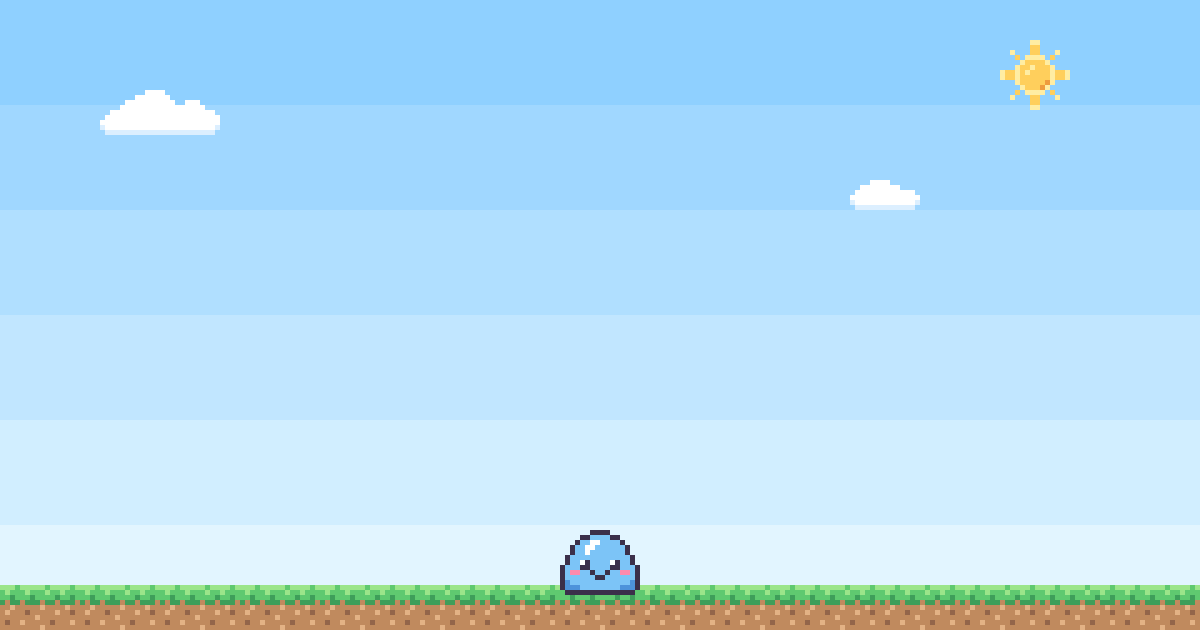
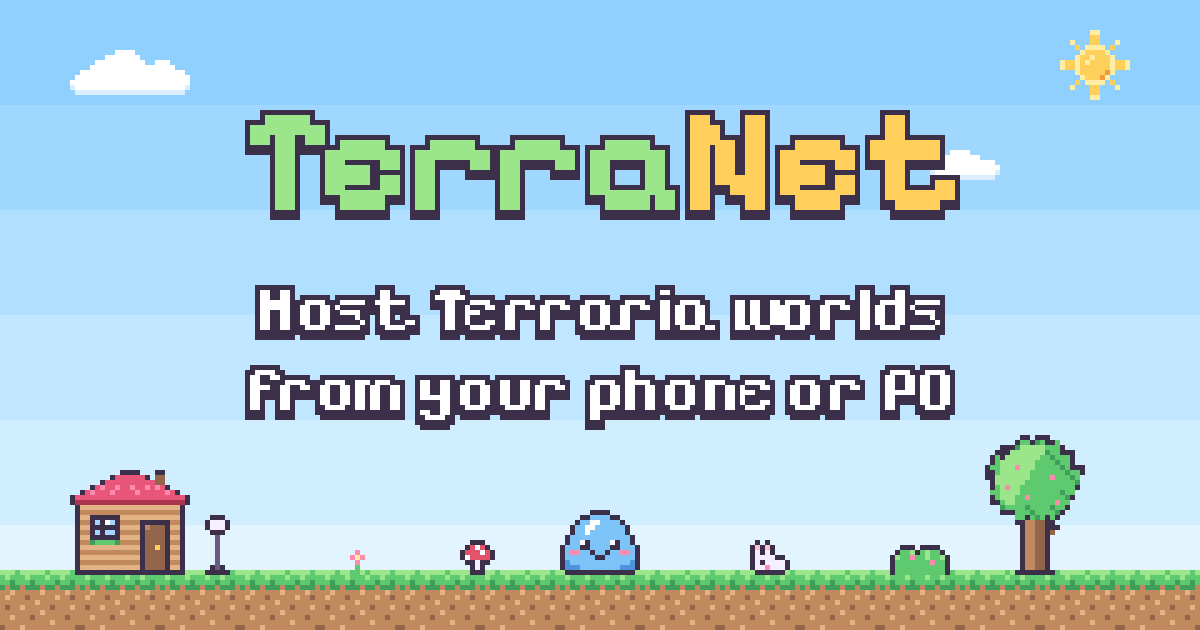
web: imagen y meta para redes

diff --git a/web/public/index.html b/web/public/index.html
@@ -5,8 +5,19 @@
   <meta name="viewport" content="width=device-width, initial-scale=1, viewport-fit=cover">
   <title>TerraNet</title>
   <meta name="description" content="Host Terraria worlds from your phone or PC and play with friends anywhere.">
+  <meta property="og:type" content="website">
+  <meta property="og:site_name" content="TerraNet">
+  <meta property="og:url" content="https://terra.hacks.win/">
   <meta property="og:title" content="TerraNet">
-  <meta property="og:image" content="/og.png">
+  <meta property="og:description" content="Host Terraria worlds from your phone or PC and let friends join from anywhere. Free, simple, vanilla by default.">
+  <meta property="og:image" content="https://terra.hacks.win/og.png?v=2">
+  <meta property="og:image:width" content="1200">
+  <meta property="og:image:height" content="630">
+  <meta property="og:image:alt" content="TerraNet: host Terraria worlds from your phone or PC">
+  <meta name="twitter:card" content="summary_large_image">
+  <meta name="twitter:title" content="TerraNet">
+  <meta name="twitter:description" content="Host Terraria worlds from your phone or PC and let friends join from anywhere.">
+  <meta name="twitter:image" content="https://terra.hacks.win/og.png?v=2">
   <meta name="theme-color" content="#86CBFF">
   <link rel="icon" href="/favicon.svg" type="image/svg+xml">
   <link rel="apple-touch-icon" href="/apple-touch-icon.png">

diff --git a/tools/art/render.py b/tools/art/render.py
@@ -2,7 +2,7 @@ import json
 import sys
 from pathlib import Path
 
-from PIL import Image
+from PIL import Image, ImageDraw, ImageFont
 
 ROOT = Path(__file__).resolve().parents[2]
 ART = ROOT / "art"
@@ -113,6 +113,49 @@ def tray(palette, sprites, online):
     return canvas
 
 
+def outlined(canvas, position, text, font, fill, outline, shadow):
+    draw = ImageDraw.Draw(canvas)
+    draw.fontmode = "1"
+    x, y = position
+    draw.text((x, y + 2), text, font=font, fill=shadow)
+    for dx, dy in ((-1, 0), (1, 0), (0, -1), (0, 1), (-1, -1), (1, -1), (-1, 1), (1, 1), (-1, 2), (0, 2), (1, 2)):
+        draw.text((x + dx, y + dy), text, font=font, fill=outline)
+    draw.text((x, y), text, font=font, fill=fill)
+
+
+def og(palette, sprites):
+    width, height = 240, 126
+    banner = sky(126).resize((width, height), Image.NEAREST)
+    ground = height - 12
+    for x in range(0, width, 16):
+        stamp(banner, sprites["grass"], palette, x, ground)
+    stamp(banner, sprites["cloud"], palette, 14, 10)
+    stamp(banner, sprites["cloudSmall"], palette, 186, 30)
+    stamp(banner, sprites["sun"], palette, 212, 6)
+    stamp(banner, sprites["house"], palette, 14, ground - 20)
+    stamp(banner, sprites["lamp"], palette, 41, ground - 11)
+    stamp(banner, sprites["treeBig"], palette, 196, ground - 27)
+    stamp(banner, sprites["bush"], palette, 178, ground - 5)
+    stamp(banner, sprites["slime"], palette, 112, ground - 12)
+    stamp(banner, sprites["bunny"], palette, 150, ground - 6)
+    stamp(banner, sprites["flower"], palette, 70, ground - 4)
+    stamp(banner, sprites["mushroom"], palette, 92, ground - 6)
+
+    ink = (59, 47, 74, 255)
+    title = ImageFont.truetype(str(ART / "fonts" / "PixelifySans-Bold.ttf"), 30)
+    body = ImageFont.truetype(str(ART / "fonts" / "PixelifySans-SemiBold.ttf"), 13)
+    measure = ImageDraw.Draw(banner)
+    terra = measure.textlength("Terra", font=title)
+    total = terra + measure.textlength("Net", font=title)
+    left = round((width - total) / 2)
+    outlined(banner, (left, 14), "Terra", title, (155, 229, 138, 255), ink, ink)
+    outlined(banner, (left + round(terra), 14), "Net", title, (255, 207, 92, 255), ink, ink)
+    for index, line in enumerate(("Host Terraria worlds", "from your phone or PC")):
+        size = measure.textlength(line, font=body)
+        outlined(banner, (round((width - size) / 2), 54 + index * 16), line, body, (255, 255, 255, 255), ink, ink)
+    return banner.resize((width * 5, height * 5), Image.NEAREST)
+
+
 def notch(image, radius):
     mask = Image.new("L", image.size, 255)
     w, h = image.size
@@ -178,17 +221,7 @@ def main():
     svg.append("</svg>")
     (WEB / "favicon.svg").write_text("".join(svg), encoding="utf-8")
 
-    banner = sky(120)
-    banner = banner.resize((240, 126), Image.NEAREST)
-    stamp_y = 126 - 9
-    for x in range(0, 240, 16):
-        stamp(banner, sprites["grass"], palette, x, stamp_y)
-    stamp(banner, sprites["slime"], palette, 112, stamp_y - 11)
-    stamp(banner, sprites["cloud"], palette, 20, 18)
-    stamp(banner, sprites["cloudSmall"], palette, 170, 36)
-    stamp(banner, sprites["sun"], palette, 200, 8)
-    scaled_banner = banner.resize((1200, 630), Image.NEAREST)
-    scaled_banner.save(WEB / "og.png")
+    og(palette, sprites).save(WEB / "og.png")
     print("rendered", OUT, file=sys.stderr)
 
 
